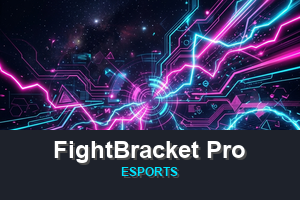
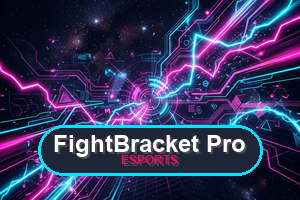
Restore bubble text style over AI image background

Changed region(s): [[0.0, 0.6, 1.0, 1.0]]

diff --git a/fightbracket_pro/scripts/process_ai_images_bubble.py b/fightbracket_pro/scripts/process_ai_images_bubble.py
@@ -1,0 +1,94 @@
+import os
+from PIL import Image, ImageDraw, ImageFont
+
+def draw_text_with_shadow(draw, text, position, font, text_color, shadow_color=(0, 0, 0, 180)):
+    x, y = position
+    # Draw shadow
+    draw.text((x + 2, y + 2), text, font=font, fill=shadow_color, anchor="mm")
+    # Draw text
+    draw.text((x, y), text, font=font, fill=text_color, anchor="mm")
+
+def process_and_add_text_bubble(image_path, output_path, target_width, target_height, text_main, text_sub, text_y_ratio=0.8):
+    img = Image.open(image_path).convert("RGBA")
+    
+    # Calculate target aspect ratio
+    target_ratio = target_width / target_height
+    img_ratio = img.width / img.height
+    
+    if img_ratio > target_ratio:
+        # Crop width
+        new_width = int(img.height * target_ratio)
+        left = (img.width - new_width) / 2
+        img = img.crop((left, 0, left + new_width, img.height))
+    elif img_ratio < target_ratio:
+        # Crop height
+        new_height = int(img.width / target_ratio)
+        top = (img.height - new_height) / 2
+        img = img.crop((0, top, img.width, top + new_height))
+        
+    img = img.resize((target_width, target_height), Image.Resampling.LANCZOS)
+    draw = ImageDraw.Draw(img, "RGBA")
+    
+    # Try to load a bold font
+    try:
+        font_main = ImageFont.truetype("arialbd.ttf", int(target_height * 0.12))
+        font_sub = ImageFont.truetype("arialbd.ttf", int(target_height * 0.06))
+    except:
+        font_main = ImageFont.load_default()
+        font_sub = ImageFont.load_default()
+        
+    center_x = target_width / 2
+    y_main = target_height * text_y_ratio
+    
+    # Instead of a giant square, draw a sleek "bubble" / pill shape around the text!
+    # This covers "Neon Arc" beautifully without ruining the whole background.
+    if text_main:
+        # Estimate text width
+        try:
+            bbox = font_main.getbbox(text_main)
+            text_w = bbox[2] - bbox[0]
+        except:
+            text_w = target_width * 0.8
+            
+        pill_w = text_w + (target_width * 0.1)
+        pill_h = target_height * 0.25
+        
+        pill_x1 = center_x - (pill_w / 2)
+        pill_y1 = y_main - (pill_h / 2)
+        pill_x2 = center_x + (pill_w / 2)
+        pill_y2 = y_main + (pill_h / 2)
+        
+        # Draw the rounded rectangle bubble
+        draw.rounded_rectangle([pill_x1, pill_y1, pill_x2, pill_y2], radius=int(pill_h/2), fill=(15, 23, 42, 240), outline=(0, 229, 255, 255), width=3)
+        
+        draw_text_with_shadow(draw, text_main, (center_x, y_main - (target_height * 0.03)), font_main, (255, 255, 255, 255))
+        if text_sub:
+            draw_text_with_shadow(draw, text_sub, (center_x, y_main + (target_height * 0.05)), font_sub, (255, 0, 110, 255))
+
+    img.save(output_path, format="PNG")
+    print(f"Saved {output_path} with bubble text overlay.")
+
+brain_dir = r"C:\Users\Michelle\.gemini\antigravity-ide\brain\804d3970-e534-4279-ad64-0968432ca563"
+out_dir = r"C:\projects\fightbracket_pro_extended\fightbracket_pro\public\twitch-extension\assets"
+os.makedirs(out_dir, exist_ok=True)
+
+# Use the VERY FIRST AI generated images which the user liked (before the text was covered with a boring box)
+logo_src = os.path.join(brain_dir, "esports_thunderbolt_logo_1785695658891.png")
+banner_src = os.path.join(brain_dir, "esports_discovery_banner_1785695674536.png")
+screenshot_src = os.path.join(brain_dir, "esports_stream_screenshot_1785695722696.png")
+
+# 1. Logo (100x100) - No text, just crop it so we keep the awesome raw AI logo!
+img_logo = Image.open(logo_src).convert("RGBA").resize((100, 100), Image.Resampling.LANCZOS)
+img_logo.save(os.path.join(out_dir, "logo-100x100.png"), format="PNG")
+
+# 2. Icon (24x24) - No text
+img_icon = Image.open(logo_src).convert("RGBA").resize((24, 24), Image.Resampling.LANCZOS)
+img_icon.save(os.path.join(out_dir, "icon-24x24.png"), format="PNG")
+
+# 3. Discovery Banner (300x200) - Cool Bubble Text!
+process_and_add_text_bubble(banner_src, os.path.join(out_dir, "discovery-300x200.png"), 300, 200, "FightBracket Pro", "ESPORTS", 0.75)
+
+# 4. Screenshot (1024x768) - Cool Bubble Text!
+process_and_add_text_bubble(screenshot_src, os.path.join(out_dir, "screenshot-1024x768.png"), 1024, 768, "FightBracket Pro", "ESPORTS", 0.75)
+
+print("Images regenerated with sleek text bubbles!")
